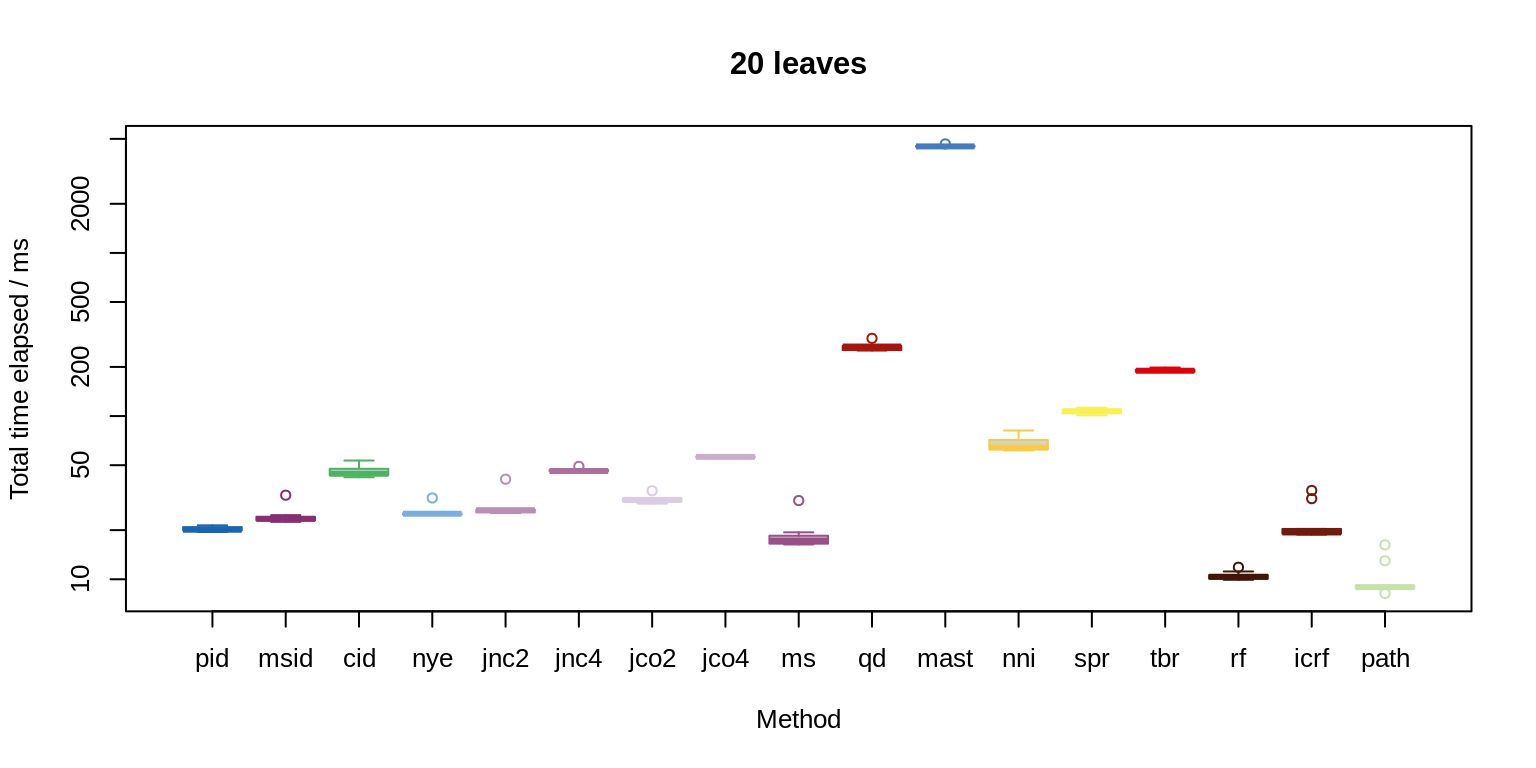
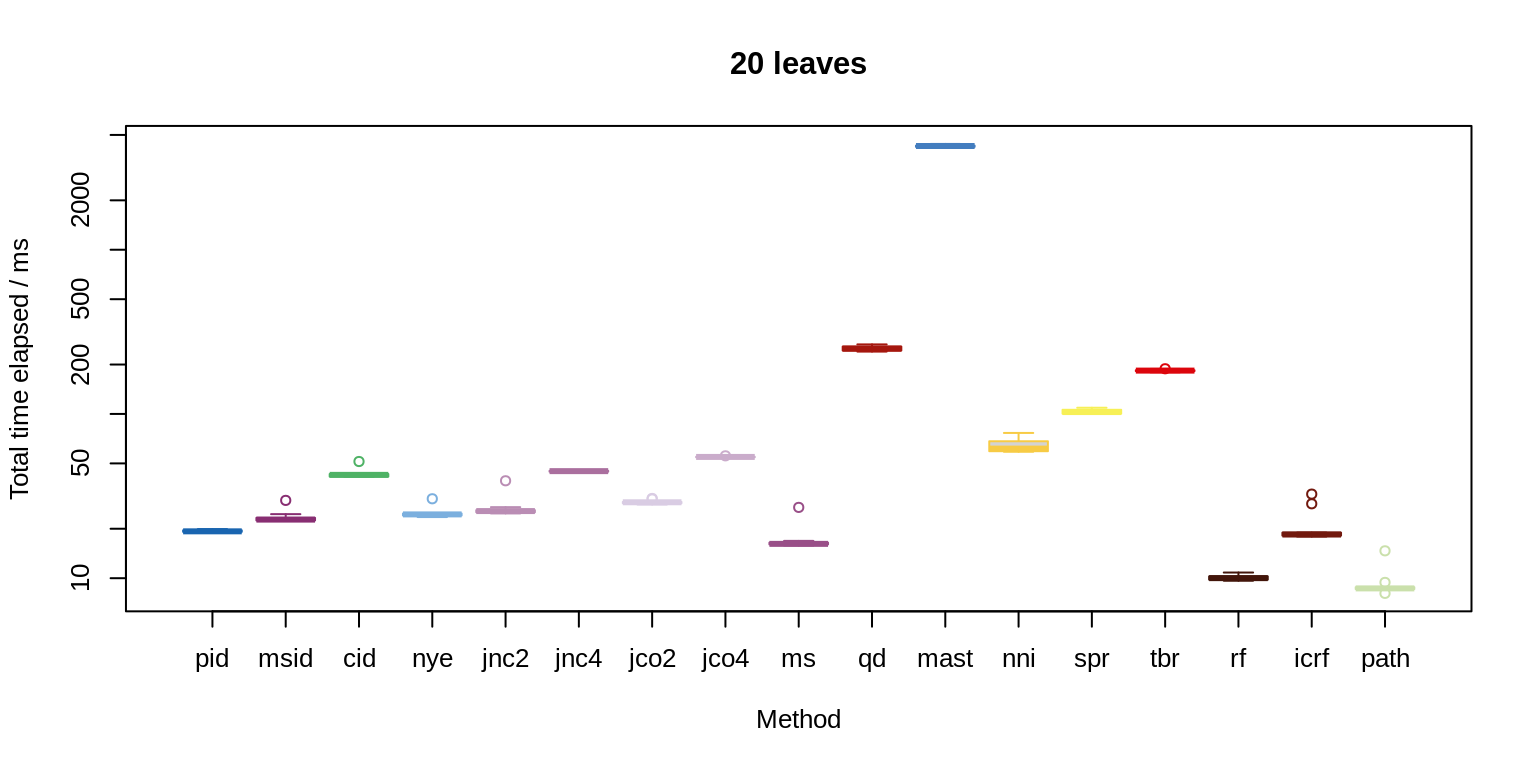
Built site for TreeDistData: 1.1.0@30c1a24

diff --git a/articles/07-bullseye.html b/articles/07-bullseye.html
@@ -135,8 +135,8 @@
 <div id="tabulation" class="section level2">
 <h2 class="hasAnchor">
 <a href="#tabulation" class="anchor"></a>Tabulation</h2>
-<div id="htmlwidget-35d39c72fd5ac5b91c0a" style="width:100%;height:auto;" class="datatables html-widget"></div>
-<script type="application/json" data-for="htmlwidget-35d39c72fd5ac5b91c0a">{"x":{"filter":"none","data":[["Phylog. Info. Dist","Match. Split Info Dist","Clust. Info. Dist.","Quartet","Nye <i>et al.<\/i>","JRF (k = 2, no conflict)","JRF (k = 4, no conflict)","JRF (k = 2, conflict ok)","JRF (k = 4, conflict ok)","Match. Split Dist.","MAST size","MAST info","NNI (lwr bnd)","NNI (upr bnd)","SPR (approx.)","TBR (lwr bnd)","TBR (upr bnd)","Robinson-Foulds","Info. Corr. RF","Path"],["651","639","650","626","644","642","629","631","635","636","498","498","410","444","406","312","398","410","638","633"],["937","902","941","809","961","965","929","955","931","777","622","622","781","802","613","604","693","781","785","704"],["0.708","0.686","0.714","0.619","0.704","0.711","0.671","0.699","0.669","0.665","0.515","0.515","0.595","0.583","0.329","0.439","0.339","0.595","0.643","0.621"],["0.935","0.913","0.935","0.861","0.936","0.943","0.925","0.937","0.927","0.785","0.793","0.793","0.903","0.902","0.721","0.837","0.84","0.903","0.746","0.6"]],"container":"<table class=\"display\">\n  <thead>\n    <tr>\n      <th>Method<\/th>\n      <th>Subsampling: Success rate (50 leaves)<\/th>\n      <th>Miscoding: Success rate (50 leaves)<\/th>\n      <th>Subsampling: Accuracy (ρ)<\/th>\n      <th>Miscoding: Accuracy (ρ)<\/th>\n    <\/tr>\n  <\/thead>\n<\/table>","options":{"paging":false,"searching":false,"info":false,"order":[],"autoWidth":false,"orderClasses":false}},"evals":[],"jsHooks":[]}</script>
+<div id="htmlwidget-df6f23272f3beaa5862a" style="width:100%;height:auto;" class="datatables html-widget"></div>
+<script type="application/json" data-for="htmlwidget-df6f23272f3beaa5862a">{"x":{"filter":"none","data":[["Phylog. Info. Dist","Match. Split Info Dist","Clust. Info. Dist.","Quartet","Nye <i>et al.<\/i>","JRF (k = 2, no conflict)","JRF (k = 4, no conflict)","JRF (k = 2, conflict ok)","JRF (k = 4, conflict ok)","Match. Split Dist.","MAST size","MAST info","NNI (lwr bnd)","NNI (upr bnd)","SPR (approx.)","TBR (lwr bnd)","TBR (upr bnd)","Robinson-Foulds","Info. Corr. RF","Path"],["651","639","650","626","644","642","629","631","635","636","498","498","410","444","406","312","398","410","638","633"],["937","902","941","809","961","965","929","955","931","777","622","622","781","802","613","604","693","781","785","704"],["0.708","0.686","0.714","0.619","0.704","0.711","0.671","0.699","0.669","0.665","0.515","0.515","0.595","0.583","0.329","0.439","0.339","0.595","0.643","0.621"],["0.935","0.913","0.935","0.861","0.936","0.943","0.925","0.937","0.927","0.785","0.793","0.793","0.903","0.902","0.721","0.837","0.84","0.903","0.746","0.6"]],"container":"<table class=\"display\">\n  <thead>\n    <tr>\n      <th>Method<\/th>\n      <th>Subsampling: Success rate (50 leaves)<\/th>\n      <th>Miscoding: Success rate (50 leaves)<\/th>\n      <th>Subsampling: Accuracy (ρ)<\/th>\n      <th>Miscoding: Accuracy (ρ)<\/th>\n    <\/tr>\n  <\/thead>\n<\/table>","options":{"paging":false,"searching":false,"info":false,"order":[],"autoWidth":false,"orderClasses":false}},"evals":[],"jsHooks":[]}</script>
 </div>
   </div>
 

diff --git a/articles/06-lin-cluster-recovery.html b/articles/06-lin-cluster-recovery.html
@@ -132,8 +132,8 @@
 <h2 class="hasAnchor">
 <a href="#rankings" class="anchor"></a>Rankings</h2>
 <p>Rankings were calculated for each value of <em>k</em> and each clustering method, using lowest value in ties. The table reports the average ranking for all values of <em>k</em> and all clustering methods for each test.</p>
-<div id="htmlwidget-fe0e22e6e6549f4bc0f6" style="width:100%;height:auto;" class="datatables html-widget"></div>
-<script type="application/json" data-for="htmlwidget-fe0e22e6e6549f4bc0f6">{"x":{"filter":"none","data":[["Nye <i>et al.<\/i>","JRF (k = 2, conflict ok)","Clust. Info. Dist.","Match. Split Info Dist","JRF (k = 4, conflict ok)","JRF (k = 2, no conflict)","Match. Split Dist.","JRF (k = 4, no conflict)","Quartet","Phylog. Info. Dist","TBR (upr bnd)","SPR (approx.)","NNI (upr bnd)","NNI (lwr bnd)","Robinson-Foulds","TBR (lwr bnd)","Path","Info. Corr. RF"],["4.66","5.4","4.46","4.62","8.08","7.36","7.26","9.52","5.14","6.5","11.58","12.18","13.38","13.84","13.84","12.7","14.14","16.34"],["4.15","5","7.1","5.45","6.75","11.475","3.825","10.825","9.55","13.75","11.4","9.225","11.15","10.975","10.975","11.475","11.9","16.025"],["3.76","2.6","5.96","9.46","4.7","2.76","14.84","5.96","12.38","7.1","10.72","13","10.82","11.24","11.24","12.74","16.14","15.58"],["4.19","4.33","5.84","6.51","6.51","7.2","8.64","8.77","9.02","9.12","11.23","11.47","11.78","12.02","12.02","12.3","14.06","15.98"]],"container":"<table class=\"display\">\n  <thead>\n    <tr>\n      <th>Method<\/th>\n      <th>Test one<\/th>\n      <th>Test two<\/th>\n      <th>Test three<\/th>\n      <th>Mean rank<\/th>\n    <\/tr>\n  <\/thead>\n<\/table>","options":{"paging":false,"searching":false,"info":false,"order":[],"autoWidth":false,"orderClasses":false}},"evals":[],"jsHooks":[]}</script>
+<div id="htmlwidget-5710dad77545fe3a5816" style="width:100%;height:auto;" class="datatables html-widget"></div>
+<script type="application/json" data-for="htmlwidget-5710dad77545fe3a5816">{"x":{"filter":"none","data":[["Nye <i>et al.<\/i>","JRF (k = 2, conflict ok)","Clust. Info. Dist.","Match. Split Info Dist","JRF (k = 4, conflict ok)","JRF (k = 2, no conflict)","Match. Split Dist.","JRF (k = 4, no conflict)","Quartet","Phylog. Info. Dist","TBR (upr bnd)","SPR (approx.)","NNI (upr bnd)","NNI (lwr bnd)","Robinson-Foulds","TBR (lwr bnd)","Path","Info. Corr. RF"],["4.66","5.4","4.46","4.62","8.08","7.36","7.26","9.52","5.14","6.5","11.58","12.18","13.38","13.84","13.84","12.7","14.14","16.34"],["4.15","5","7.1","5.45","6.75","11.475","3.825","10.825","9.55","13.75","11.4","9.225","11.15","10.975","10.975","11.475","11.9","16.025"],["3.76","2.6","5.96","9.46","4.7","2.76","14.84","5.96","12.38","7.1","10.72","13","10.82","11.24","11.24","12.74","16.14","15.58"],["4.19","4.33","5.84","6.51","6.51","7.2","8.64","8.77","9.02","9.12","11.23","11.47","11.78","12.02","12.02","12.3","14.06","15.98"]],"container":"<table class=\"display\">\n  <thead>\n    <tr>\n      <th>Method<\/th>\n      <th>Test one<\/th>\n      <th>Test two<\/th>\n      <th>Test three<\/th>\n      <th>Mean rank<\/th>\n    <\/tr>\n  <\/thead>\n<\/table>","options":{"paging":false,"searching":false,"info":false,"order":[],"autoWidth":false,"orderClasses":false}},"evals":[],"jsHooks":[]}</script>
 </div>
   </div>
 

diff --git a/articles/05-tree-shape.html b/articles/05-tree-shape.html
@@ -130,8 +130,8 @@
 <p><img src="05-tree-shape_files/figure-html/tree-shapes-1.png" width="576" style="display: block; margin: auto;"></p>
 <p>To evaluate the extent to which trees are ranked as less (or more) different simply because they exhibit the same shape, I evaluated the extent to which tree distance could be predicted based only on knowledge of the topology of the two input trees.</p>
 <p><img src="05-tree-shape_files/figure-html/analyse-1.png" width="576" style="display: block; margin: auto;"></p>
-<div id="htmlwidget-c909326fc67fbba722b3" style="width:100%;height:auto;" class="datatables html-widget"></div>
-<script type="application/json" data-for="htmlwidget-c909326fc67fbba722b3">{"x":{"filter":"none","data":[["Phylog. Info. Dist","Match. Split Info Dist","Clust. Info. Dist.","Quartet","Nye <i>et al.<\/i>","JRF (k = 2, no conflict)","JRF (k = 4, no conflict)","JRF (k = 2, conflict ok)","JRF (k = 4, conflict ok)","Match. Split Dist.","MAST size","MAST info","NNI (lwr bnd)","NNI (ub tight)","NNI (upr bnd)","SPR (approx.)","TBR (lwr bnd)","TBR (upr bnd)","Robinson-Foulds","Info. Corr. RF","Path"],["0.0095","0.013","0.01","1e-04","0.0136","0.0097","0.0044","0.0037","0.0021","0.0661","0.0075","0.0078","0.0192","0.0156","0.0265","0.0099","0.0089","0.0011","0.0192","0.2484","0.4852"],["0.0093","0.0128","0.0098","-1e-04","0.0134","0.0095","0.0042","0.0035","0.0019","0.0659","0.0074","0.0076","0.019","0.0154","0.0263","0.0098","0.0087","9e-04","0.019","0.2483","0.4851"]],"container":"<table class=\"display\">\n  <thead>\n    <tr>\n      <th>Method<\/th>\n      <th>r²<\/th>\n      <th>adjusted r²<\/th>\n    <\/tr>\n  <\/thead>\n<\/table>","options":{"paging":false,"searching":false,"info":false,"order":[],"autoWidth":false,"orderClasses":false}},"evals":[],"jsHooks":[]}</script>
+<div id="htmlwidget-a267d7d257e6ebc821e0" style="width:100%;height:auto;" class="datatables html-widget"></div>
+<script type="application/json" data-for="htmlwidget-a267d7d257e6ebc821e0">{"x":{"filter":"none","data":[["Phylog. Info. Dist","Match. Split Info Dist","Clust. Info. Dist.","Quartet","Nye <i>et al.<\/i>","JRF (k = 2, no conflict)","JRF (k = 4, no conflict)","JRF (k = 2, conflict ok)","JRF (k = 4, conflict ok)","Match. Split Dist.","MAST size","MAST info","NNI (lwr bnd)","NNI (ub tight)","NNI (upr bnd)","SPR (approx.)","TBR (lwr bnd)","TBR (upr bnd)","Robinson-Foulds","Info. Corr. RF","Path"],["0.0095","0.013","0.01","1e-04","0.0136","0.0097","0.0044","0.0037","0.0021","0.0661","0.0075","0.0078","0.0192","0.0156","0.0265","0.0099","0.0089","0.0011","0.0192","0.2484","0.4852"],["0.0093","0.0128","0.0098","-1e-04","0.0134","0.0095","0.0042","0.0035","0.0019","0.0659","0.0074","0.0076","0.019","0.0154","0.0263","0.0098","0.0087","9e-04","0.019","0.2483","0.4851"]],"container":"<table class=\"display\">\n  <thead>\n    <tr>\n      <th>Method<\/th>\n      <th>r²<\/th>\n      <th>adjusted r²<\/th>\n    <\/tr>\n  <\/thead>\n<\/table>","options":{"paging":false,"searching":false,"info":false,"order":[],"autoWidth":false,"orderClasses":false}},"evals":[],"jsHooks":[]}</script>
 </div>
 
   <div class="col-md-3 hidden-xs hidden-sm" id="pkgdown-sidebar">

diff --git a/articles/10-timing.html b/articles/10-timing.html
@@ -139,14 +139,14 @@ The values reported in Smith <span class="citation">(2020)</span> were calculate
 <h2 class="hasAnchor">
 <a href="#tabulation" class="anchor"></a>Tabulation</h2>
 <div id="htmlwidget-645c4a0173fa826ea5fd" style="width:100%;height:auto;" class="datatables html-widget"></div>
-<script type="application/json" data-for="htmlwidget-645c4a0173fa826ea5fd">{"x":{"filter":"none","caption":"<caption>Mean time per comparison / µs<\/caption>","data":[["Path","Robinson-Foulds","Match. Split Dist.","Phylog. Info. Dist","Info. Corr. RF","Match. Split Info Dist","Nye <i>et al.<\/i>","JRF (k = 2, no conflict)","JRF (k = 2, conflict ok)","Clust. Info. Dist.","JRF (k = 4, no conflict)","JRF (k = 4, conflict ok)","NNI (approx.)","SPR (approx.)","TBR (approx.)","Quartet","MAST size"],[" 10"," 11"," 19"," 21"," 22"," 25"," 26"," 28"," 31"," 46"," 47"," 57"," 68","110","190","270","4600"],[" 18"," 13"," 47"," 86"," 38","140","130","120","170","260","500","810"," 89","1200","350","480","22000"]],"container":"<table class=\"display\">\n  <thead>\n    <tr>\n      <th>Method<\/th>\n      <th>20 leaves<\/th>\n      <th>50 leaves<\/th>\n    <\/tr>\n  <\/thead>\n<\/table>","options":{"paging":false,"searching":false,"info":false,"order":[],"autoWidth":false,"orderClasses":false}},"evals":[],"jsHooks":[]}</script>
+<script type="application/json" data-for="htmlwidget-645c4a0173fa826ea5fd">{"x":{"filter":"none","caption":"<caption>Mean time per comparison / µs<\/caption>","data":[["Path","Robinson-Foulds","Match. Split Dist.","Phylog. Info. Dist","Info. Corr. RF","Match. Split Info Dist","Nye <i>et al.<\/i>","JRF (k = 2, no conflict)","JRF (k = 2, conflict ok)","Clust. Info. Dist.","JRF (k = 4, no conflict)","JRF (k = 4, conflict ok)","NNI (approx.)","SPR (approx.)","TBR (approx.)","Quartet","MAST size"],["9.4"," 10"," 17"," 20"," 21"," 24"," 25"," 27"," 29"," 44"," 45"," 55"," 64","100","190","250","4300"],[" 17"," 13"," 46"," 82"," 37","140","130","120","160","260","500","800"," 83","1100","340","450","21000"]],"container":"<table class=\"display\">\n  <thead>\n    <tr>\n      <th>Method<\/th>\n      <th>20 leaves<\/th>\n      <th>50 leaves<\/th>\n    <\/tr>\n  <\/thead>\n<\/table>","options":{"paging":false,"searching":false,"info":false,"order":[],"autoWidth":false,"orderClasses":false}},"evals":[],"jsHooks":[]}</script>
 </div>
 <div id="reference" class="section level2 unnumbered">
 <h2 class="hasAnchor">
 <a href="#reference" class="anchor"></a>Reference</h2>
 <div id="refs" class="references">
 <div id="ref-Smith2020">
-<p>Smith, M. R. (2020). Information theoretic Generalized Robinson-Foulds metrics for comparing phylogenetic trees. <em>Bioinformatics</em>, in production. doi: <a href="https://doi.org/10.1093/bioinformatics/btaa614">10.1093/bioinformatics/btaa614</a></p>
+<p>Smith, M. R. (2020). Information theoretic Generalized Robinson-Foulds metrics for comparing phylogenetic trees. <em>Bioinformatics</em>, online ahead of print. doi: <a href="https://doi.org/10.1093/bioinformatics/btaa614">10.1093/bioinformatics/btaa614</a></p>
 </div>
 </div>
 </div>

diff --git a/reference/distanceDistributions.html b/reference/distanceDistributions.html
@@ -45,7 +45,7 @@ normalized distances between random pairs of bifurcating trees with 25 and
 50 leaves drawn from the uniform distribution using
 TreeTools::RandomTree() (data object randomTreePairs25(/50)).
 pectinateDistances11 reports distances between a pectinate 11-leaf tree
-and 100 000 random binary trees." />
+and 100&amp;amp;nbsp;000 random binary trees." />
 
 
 
@@ -169,7 +169,7 @@ normalized distances between random pairs of bifurcating trees with 25 and
 50 leaves drawn from the uniform distribution using
 <code><a href='https://ms609.github.io/TreeTools/reference/GenerateTree.html'>TreeTools::RandomTree()</a></code> (data object <code><a href='randomTreePairs.html'>randomTreePairs25</a></code><code>(/50)</code>).
 <code>pectinateDistances11</code> reports distances between a pectinate 11-leaf tree
-and 100 000 random binary trees.</p>
+and 100&amp;nbsp;000 random binary trees.</p>
     </div>
 
     <pre class="usage"><span class='no'>distanceDistribution25</span>
@@ -184,10 +184,10 @@ and 100 000 random binary trees.</p>
     <p>Objects of class <code>matrix</code> (inherits from <code>array</code>) with
 23 rows, each corresponding
 to a tree distance method and is named with its abbreviation
-(listed in 'Methods tested' below), and 10 000
-(<code>distanceDistribution25/50</code>)
-or 100 000 (<code>pectinateDistances11</code>) columns,
-listing the calculated distances between each pair of trees.</p>
+(listed in 'Methods tested' below), and
+10&amp;nbsp;000 (<code>distanceDistribution25/50</code>)
+or 100&amp;nbsp;000 (<code>pectinateDistances11</code>)
+columns, listing the calculated distances between each pair of trees.</p>
 <p>An object of class <code>matrix</code> (inherits from <code>array</code>) with 23 rows and 10000 columns.</p>
 <p>An object of class <code>matrix</code> (inherits from <code>array</code>) with 23 rows and 10000 columns.</p>
 <p>An object of class <code>matrix</code> (inherits from <code>array</code>) with 22 rows and 100000 columns.</p>
@@ -279,11 +279,11 @@ doi: <a href='https://doi.org/10.1098/rsbl.2018.0632'>10.1098/rsbl.2018.0632</a>
 .</p>
 <p>Smith MR (2020).
 &#8220;Information theoretic Generalized Robinson-Foulds metrics for comparing phylogenetic trees.&#8221;
-<em>Bioinformatics</em>, in production.
+<em>Bioinformatics</em>, online ahead of print.
 doi: <a href='https://doi.org/10.1093/bioinformatics/btaa614'>10.1093/bioinformatics/btaa614</a>
 .</p>
 <p>Steel MA, Penny D (1993).
-&#8220;Distributions of tree comparison metrics—some new results.&#8221;
+&#8220;Distributions of tree comparison metrics---some new results.&#8221;
 <em>Systematic Biology</em>, <b>42</b>(2), 126--141.
 doi: <a href='https://doi.org/10.1093/sysbio/42.2.126'>10.1093/sysbio/42.2.126</a>
 .</p>

diff --git a/articles/01-length-of-move.html b/articles/01-length-of-move.html
@@ -136,8 +136,8 @@
 <p><img src="01-length-of-move_files/figure-html/unnamed-chunk-2-1.png" width="691.2"></p>
 <p>The <em>move length</em> between any pair of these trees is defined as the number of nodes that must be traversed to travel from the position of the eleventh leaf in one tree to its position in the second. I define a <em>mis-ordering</em> as a case where the distance between a pair of trees is not strictly larger than the distance between every tree pair with a shorter move length, or a case where the distance is not strictly smaller than that between every tree pair with a greater move length.</p>
 <p>We would like a metric to display a monotonic increase, such that all tree pairs with <em>n</em> edges between the added leaves are further apart than any tree pair with <em>n</em> − 1 edges between the added leaves.</p>
-<div id="htmlwidget-0abe18baaceef49c03ff" style="width:100%;height:auto;" class="datatables html-widget"></div>
-<script type="application/json" data-for="htmlwidget-0abe18baaceef49c03ff">{"x":{"filter":"none","data":[["Clust. Info. Dist.","Phylog. Info. Dist","Nye <i>et al.<\/i>","JRF (k = 2, conflict ok)","JRF (k = 4, conflict ok)","JRF (k = 2, no conflict)","JRF (k = 4, no conflict)","Robinson-Foulds","Info. Corr. RF","Path","Match. Split Info Dist","Match. Split Dist.","Quartet","MAST size","MAST info","NNI (upr bnd)","NNI (lwr bnd)","SPR (approx.)","TBR (lwr bnd)","TBR (upr bnd)"],[8,84,24,0,0,0,0,0,0,126,0,354,94,480,480,0,0,480,480,480]],"container":"<table class=\"display\">\n  <thead>\n    <tr>\n      <th>Method<\/th>\n      <th>Mis-orderings<\/th>\n    <\/tr>\n  <\/thead>\n<\/table>","options":{"paging":false,"searching":false,"info":false,"order":[],"autoWidth":false,"orderClasses":false}},"evals":[],"jsHooks":[]}</script>
+<div id="htmlwidget-d422733e912954516939" style="width:100%;height:auto;" class="datatables html-widget"></div>
+<script type="application/json" data-for="htmlwidget-d422733e912954516939">{"x":{"filter":"none","data":[["Clust. Info. Dist.","Phylog. Info. Dist","Nye <i>et al.<\/i>","JRF (k = 2, conflict ok)","JRF (k = 4, conflict ok)","JRF (k = 2, no conflict)","JRF (k = 4, no conflict)","Robinson-Foulds","Info. Corr. RF","Path","Match. Split Info Dist","Match. Split Dist.","Quartet","MAST size","MAST info","NNI (upr bnd)","NNI (lwr bnd)","SPR (approx.)","TBR (lwr bnd)","TBR (upr bnd)"],[8,84,24,0,0,0,0,0,0,126,0,354,94,480,480,0,0,480,480,480]],"container":"<table class=\"display\">\n  <thead>\n    <tr>\n      <th>Method<\/th>\n      <th>Mis-orderings<\/th>\n    <\/tr>\n  <\/thead>\n<\/table>","options":{"paging":false,"searching":false,"info":false,"order":[],"autoWidth":false,"orderClasses":false}},"evals":[],"jsHooks":[]}</script>
 </div>
   </div>
 

diff --git a/reference/bullseye.html b/reference/bullseye.html
@@ -179,13 +179,14 @@ Kuhner and Yamato (2015).</p>
 
     <p><code>bullseyeTrees</code> is a list with four elements, named <code>5 leaves</code>, <code>10 leaves</code>,
 <code>20 leaves</code> and <code>50 leaves</code>.
-Each element contains 1 000 trees with <em>n</em> leaves, randomly sampled
+Each element contains 1&amp;nbsp;000 trees with <em>n</em> leaves, randomly sampled
 (note: <em>not</em> from the uniform distribution) using <code><a href='https://rdrr.io/pkg/ape/man/rtree.html'>ape::rtree()</a></code>.</p>
 <p>The <code>bullseyeMorph</code> prefix refers to the 'subsampling' experiment
 described by Smith (2020); the <code>bullMoDi</code> prefix refers to the
 'miscoding' experiment.</p>
 <p><code>bull...Inferred</code> is a list with four elements, named as in <code>bullseyeTrees</code>.
-Each element contains 1 000 sub-elements. Each sub-element is a list of
+Each element contains 1&amp;nbsp;000 sub-elements.
+Each sub-element is a list of
 ten trees, which have been inferred from progressively more degraded datasets,
 originally simulated from the corresponding tree in <code>bullseyeTrees</code>.</p>
 <p><code>bull...Scores</code> is a list with four elements, named as in <code>bullseyeTrees</code>.
@@ -194,8 +195,8 @@ corresponds to the progressive degrees of degradation, labelled according to
 the number of characters present or the percentage of tokens switched;
 the second dimension is named with an abbreviation of the tree similarity /
 distance metric used to score the trees (see 'Methods tested' below),
-and the third dimension contains 1 000 entries corresponding to the
-trees in <code>bullseyeTrees</code>.
+and the third dimension contains 1&amp;nbsp;000
+entries corresponding to the trees in <code>bullseyeTrees</code>.
 Each cell contains the distance between the inferred tree and the generative
 tree under the stated tree distance metric.</p>
 <p>An object of class <code>list</code> of length 4.</p>
@@ -279,11 +280,11 @@ doi: <a href='https://doi.org/10.1098/rsbl.2018.0632'>10.1098/rsbl.2018.0632</a>
 .</p>
 <p>Smith MR (2020).
 &#8220;Information theoretic Generalized Robinson-Foulds metrics for comparing phylogenetic trees.&#8221;
-<em>Bioinformatics</em>, in production.
+<em>Bioinformatics</em>, online ahead of print.
 doi: <a href='https://doi.org/10.1093/bioinformatics/btaa614'>10.1093/bioinformatics/btaa614</a>
 .</p>
 <p>Steel MA, Penny D (1993).
-&#8220;Distributions of tree comparison metrics—some new results.&#8221;
+&#8220;Distributions of tree comparison metrics---some new results.&#8221;
 <em>Systematic Biology</em>, <b>42</b>(2), 126--141.
 doi: <a href='https://doi.org/10.1093/sysbio/42.2.126'>10.1093/sysbio/42.2.126</a>
 .</p>

diff --git a/articles/04-saturation-and-sensitivity.html b/articles/04-saturation-and-sensitivity.html
@@ -127,8 +127,8 @@
     
     
 <p>Number of 100 000 trees at maximum distance from a pectinate 11-leaf reference tree:</p>
-<div id="htmlwidget-ea6708b6d36f7adeb775" style="width:100%;height:auto;" class="datatables html-widget"></div>
-<script type="application/json" data-for="htmlwidget-ea6708b6d36f7adeb775">{"x":{"filter":"none","data":[["Phylog. Info. Dist","Match. Split Info Dist","Clust. Info. Dist.","Quartet","Nye <i>et al.<\/i>","JRF (k = 2, no conflict)","JRF (k = 4, no conflict)","JRF (k = 2, conflict ok)","JRF (k = 4, conflict ok)","Match. Split Dist.","MAST size","MAST info","NNI (lwr bnd)","NNI (ub tight)","NNI (upr bnd)","SPR (approx.)","TBR (lwr bnd)","TBR (upr bnd)","Robinson-Foulds","Info. Corr. RF","Path","MAF info"],["36","1","1","1","2","36","36","1","2","11","6154","6154","86336","86336","86336","2388","7474","7474","86336","13044","1","2"],["26478","24167","28939","200","4381","19221","20488","27790","28781","28","7","7","6","12","16","5","4","7","6","208","302","20"]],"container":"<table class=\"display\">\n  <thead>\n    <tr>\n      <th>Method<\/th>\n      <th>Trees with maximum score<\/th>\n      <th>Unique distances<\/th>\n    <\/tr>\n  <\/thead>\n<\/table>","options":{"paging":false,"searching":false,"info":false,"order":[],"autoWidth":false,"orderClasses":false}},"evals":[],"jsHooks":[]}</script>
+<div id="htmlwidget-923aee6c21f5d80a40e2" style="width:100%;height:auto;" class="datatables html-widget"></div>
+<script type="application/json" data-for="htmlwidget-923aee6c21f5d80a40e2">{"x":{"filter":"none","data":[["Phylog. Info. Dist","Match. Split Info Dist","Clust. Info. Dist.","Quartet","Nye <i>et al.<\/i>","JRF (k = 2, no conflict)","JRF (k = 4, no conflict)","JRF (k = 2, conflict ok)","JRF (k = 4, conflict ok)","Match. Split Dist.","MAST size","MAST info","NNI (lwr bnd)","NNI (ub tight)","NNI (upr bnd)","SPR (approx.)","TBR (lwr bnd)","TBR (upr bnd)","Robinson-Foulds","Info. Corr. RF","Path","MAF info"],["36","1","1","1","2","36","36","1","2","11","6154","6154","86336","86336","86336","2388","7474","7474","86336","13044","1","2"],["26478","24167","28939","200","4381","19221","20488","27790","28781","28","7","7","6","12","16","5","4","7","6","208","302","20"]],"container":"<table class=\"display\">\n  <thead>\n    <tr>\n      <th>Method<\/th>\n      <th>Trees with maximum score<\/th>\n      <th>Unique distances<\/th>\n    <\/tr>\n  <\/thead>\n<\/table>","options":{"paging":false,"searching":false,"info":false,"order":[],"autoWidth":false,"orderClasses":false}},"evals":[],"jsHooks":[]}</script>
 </div>
 
   <div class="col-md-3 hidden-xs hidden-sm" id="pkgdown-sidebar">

diff --git a/articles/09-expected-similarity.html b/articles/09-expected-similarity.html
@@ -139,8 +139,8 @@
 <h2 class="hasAnchor">
 <a href="#ranges" class="anchor"></a>Ranges</h2>
 <p>Average range of distance between random trees with 20–200 leaves, expressed as percentages of the median.</p>
-<div id="htmlwidget-63cf3203c846c2c6ebec" style="width:100%;height:auto;" class="datatables html-widget"></div>
-<script type="application/json" data-for="htmlwidget-63cf3203c846c2c6ebec">{"x":{"filter":"none","data":[["NNI (tgt upr bnd)","NNI (upr bnd)","Path","MAST info","NNI (lwr bnd)","Match. Split Dist.","NNI (tgt lwr bnd)","MAST size","Info. Corr. RF","SPR (approx.)","TBR (lwr bnd)","Match. Split Info Dist","TBR (upr bnd)","Nye <i>et al.<\/i>","Clust. Info. Dist.","Quartet","JRF (k = 2, conflict ok)","Phylog. Info. Dist","JRF (k = 2, no conflict)","JRF (k = 4, conflict ok)","JRF (k = 4, no conflict)","Robinson-Foulds"],["22.4","19.3","18.8","14.7","14.2","12.3","11.9","8.8","8.4","4.6","3.7","3.3","2.6","2","1.6","1.6","1.1","1","0.8","0.3","0.3","0"]],"container":"<table class=\"display\">\n  <thead>\n    <tr>\n      <th>Method<\/th>\n      <th>Range (%)<\/th>\n    <\/tr>\n  <\/thead>\n<\/table>","options":{"paging":false,"searching":false,"info":false,"order":[],"autoWidth":false,"orderClasses":false}},"evals":[],"jsHooks":[]}</script>
+<div id="htmlwidget-bd043abe662bf62b3ffc" style="width:100%;height:auto;" class="datatables html-widget"></div>
+<script type="application/json" data-for="htmlwidget-bd043abe662bf62b3ffc">{"x":{"filter":"none","data":[["NNI (tgt upr bnd)","NNI (upr bnd)","Path","MAST info","NNI (lwr bnd)","Match. Split Dist.","NNI (tgt lwr bnd)","MAST size","Info. Corr. RF","SPR (approx.)","TBR (lwr bnd)","Match. Split Info Dist","TBR (upr bnd)","Nye <i>et al.<\/i>","Clust. Info. Dist.","Quartet","JRF (k = 2, conflict ok)","Phylog. Info. Dist","JRF (k = 2, no conflict)","JRF (k = 4, conflict ok)","JRF (k = 4, no conflict)","Robinson-Foulds"],["22.4","19.3","18.8","14.7","14.2","12.3","11.9","8.8","8.4","4.6","3.7","3.3","2.6","2","1.6","1.6","1.1","1","0.8","0.3","0.3","0"]],"container":"<table class=\"display\">\n  <thead>\n    <tr>\n      <th>Method<\/th>\n      <th>Range (%)<\/th>\n    <\/tr>\n  <\/thead>\n<\/table>","options":{"paging":false,"searching":false,"info":false,"order":[],"autoWidth":false,"orderClasses":false}},"evals":[],"jsHooks":[]}</script>
 </div>
 <div id="references" class="section level2 unnumbered">
 <h2 class="hasAnchor">

diff --git a/articles/08-spr-walking.html b/articles/08-spr-walking.html
@@ -134,8 +134,8 @@
 <div id="tabulation" class="section level2">
 <h2 class="hasAnchor">
 <a href="#tabulation" class="anchor"></a>Tabulation</h2>
-<div id="htmlwidget-a2f7afe5cb79741bbbfc" style="width:100%;height:auto;" class="datatables html-widget"></div>
-<script type="application/json" data-for="htmlwidget-a2f7afe5cb79741bbbfc">{"x":{"filter":"none","data":[["TBR (lwr bnd)","Clust. Info. Dist.","NNI (ub tight)","TBR (upr bnd)","Quartet","Phylog. Info. Dist","MAST size","MAST info","Nye <i>et al.<\/i>","Match. Split Info Dist","JRF (k = 2, conflict ok)","JRF (k = 2, no conflict)","JRF (k = 4, conflict ok)","JRF (k = 4, no conflict)","SPR (approx.)","Match. Split Dist.","NNI (lwr bnd)","Robinson-Foulds","NNI (upr bnd)","Path","Info. Corr. RF"],["0.848","0.845","0.842","0.827","0.819","0.8","0.798","0.798","0.795","0.783","0.781","0.774","0.747","0.732","0.731","0.704","0.673","0.673","0.673","0.567","0.495"]],"container":"<table class=\"display\">\n  <thead>\n    <tr>\n      <th>Method<\/th>\n      <th>τ<sub>B<\/sub><\/th>\n    <\/tr>\n  <\/thead>\n<\/table>","options":{"paging":false,"searching":false,"info":false,"order":[],"autoWidth":false,"orderClasses":false}},"evals":[],"jsHooks":[]}</script>
+<div id="htmlwidget-95ededd1098faf073649" style="width:100%;height:auto;" class="datatables html-widget"></div>
+<script type="application/json" data-for="htmlwidget-95ededd1098faf073649">{"x":{"filter":"none","data":[["TBR (lwr bnd)","Clust. Info. Dist.","NNI (ub tight)","TBR (upr bnd)","Quartet","Phylog. Info. Dist","MAST size","MAST info","Nye <i>et al.<\/i>","Match. Split Info Dist","JRF (k = 2, conflict ok)","JRF (k = 2, no conflict)","JRF (k = 4, conflict ok)","JRF (k = 4, no conflict)","SPR (approx.)","Match. Split Dist.","NNI (lwr bnd)","Robinson-Foulds","NNI (upr bnd)","Path","Info. Corr. RF"],["0.848","0.845","0.842","0.827","0.819","0.8","0.798","0.798","0.795","0.783","0.781","0.774","0.747","0.732","0.731","0.704","0.673","0.673","0.673","0.567","0.495"]],"container":"<table class=\"display\">\n  <thead>\n    <tr>\n      <th>Method<\/th>\n      <th>τ<sub>B<\/sub><\/th>\n    <\/tr>\n  <\/thead>\n<\/table>","options":{"paging":false,"searching":false,"info":false,"order":[],"autoWidth":false,"orderClasses":false}},"evals":[],"jsHooks":[]}</script>
 </div>
   </div>
 

diff --git a/articles/02-leaves-moved.html b/articles/02-leaves-moved.html
@@ -143,8 +143,8 @@
 <div id="results" class="section level2">
 <h2 class="hasAnchor">
 <a href="#results" class="anchor"></a>Results</h2>
-<div id="htmlwidget-81751147caf0a9cfe204" style="width:100%;height:auto;" class="datatables html-widget"></div>
-<script type="application/json" data-for="htmlwidget-81751147caf0a9cfe204">{"x":{"filter":"none","data":[["Phylog. Info. Dist","Match. Split Info Dist","Clust. Info. Dist.","Quartet","Nye <i>et al.<\/i>","JRF (k = 2, no conflict)","JRF (k = 4, no conflict)","JRF (k = 2, conflict ok)","JRF (k = 4, conflict ok)","Match. Split Dist.","MAST size","MAST info","NNI (lwr bnd)","NNI (tgt lwr bnd)","NNI (ub tight)","NNI (tgt upr bnd)","NNI (upr bnd)","SPR (approx.)","TBR (lwr bnd)","TBR (upr bnd)","Robinson-Foulds","Info. Corr. RF","Path"],["0","23","0","17","24","7","17","0","0","34","17","17","289","289","289","289","289","289","289","289","289","146","0"]],"container":"<table class=\"display\">\n  <thead>\n    <tr>\n      <th>Method<\/th>\n      <th>Inconsistencies<\/th>\n    <\/tr>\n  <\/thead>\n<\/table>","options":{"paging":false,"searching":false,"info":false,"order":[],"autoWidth":false,"orderClasses":false}},"evals":[],"jsHooks":[]}</script>
+<div id="htmlwidget-5cf24ef5c75c935e978e" style="width:100%;height:auto;" class="datatables html-widget"></div>
+<script type="application/json" data-for="htmlwidget-5cf24ef5c75c935e978e">{"x":{"filter":"none","data":[["Phylog. Info. Dist","Match. Split Info Dist","Clust. Info. Dist.","Quartet","Nye <i>et al.<\/i>","JRF (k = 2, no conflict)","JRF (k = 4, no conflict)","JRF (k = 2, conflict ok)","JRF (k = 4, conflict ok)","Match. Split Dist.","MAST size","MAST info","NNI (lwr bnd)","NNI (tgt lwr bnd)","NNI (ub tight)","NNI (tgt upr bnd)","NNI (upr bnd)","SPR (approx.)","TBR (lwr bnd)","TBR (upr bnd)","Robinson-Foulds","Info. Corr. RF","Path"],["0","23","0","17","24","7","17","0","0","34","17","17","289","289","289","289","289","289","289","289","289","146","0"]],"container":"<table class=\"display\">\n  <thead>\n    <tr>\n      <th>Method<\/th>\n      <th>Inconsistencies<\/th>\n    <\/tr>\n  <\/thead>\n<\/table>","options":{"paging":false,"searching":false,"info":false,"order":[],"autoWidth":false,"orderClasses":false}},"evals":[],"jsHooks":[]}</script>
 </div>
   </div>
 

diff --git a/reference/randomTreeDistances.html b/reference/randomTreeDistances.html
@@ -40,7 +40,8 @@
 
 
 <meta property="og:title" content="Mean distances between random pairs of trees — randomTreeDistances" />
-<meta property="og:description" content="A three-dimensional array listing the distances between 1 000
+<meta property="og:description" content="A three-dimensional array listing the distances between
+1&amp;amp;nbsp;000
 random pairs of trees drawn from the uniform distribution using
 RandomTree(nTip, root = TRUE)." />
 
@@ -161,7 +162,8 @@ RandomTree(nTip, root = TRUE)." />
     </div>
 
     <div class="ref-description">
-    <p>A three-dimensional array listing the distances between 1 000
+    <p>A three-dimensional array listing the distances between
+1&amp;nbsp;000
 random pairs of trees drawn from the uniform distribution using
 <code>RandomTree(nTip, root = TRUE)</code>.</p>
     </div>
@@ -268,11 +270,11 @@ doi: <a href='https://doi.org/10.1098/rsbl.2018.0632'>10.1098/rsbl.2018.0632</a>
 .</p>
 <p>Smith MR (2020).
 &#8220;Information theoretic Generalized Robinson-Foulds metrics for comparing phylogenetic trees.&#8221;
-<em>Bioinformatics</em>, in production.
+<em>Bioinformatics</em>, online ahead of print.
 doi: <a href='https://doi.org/10.1093/bioinformatics/btaa614'>10.1093/bioinformatics/btaa614</a>
 .</p>
 <p>Steel MA, Penny D (1993).
-&#8220;Distributions of tree comparison metrics—some new results.&#8221;
+&#8220;Distributions of tree comparison metrics---some new results.&#8221;
 <em>Systematic Biology</em>, <b>42</b>(2), 126--141.
 doi: <a href='https://doi.org/10.1093/sysbio/42.2.126'>10.1093/sysbio/42.2.126</a>
 .</p>
